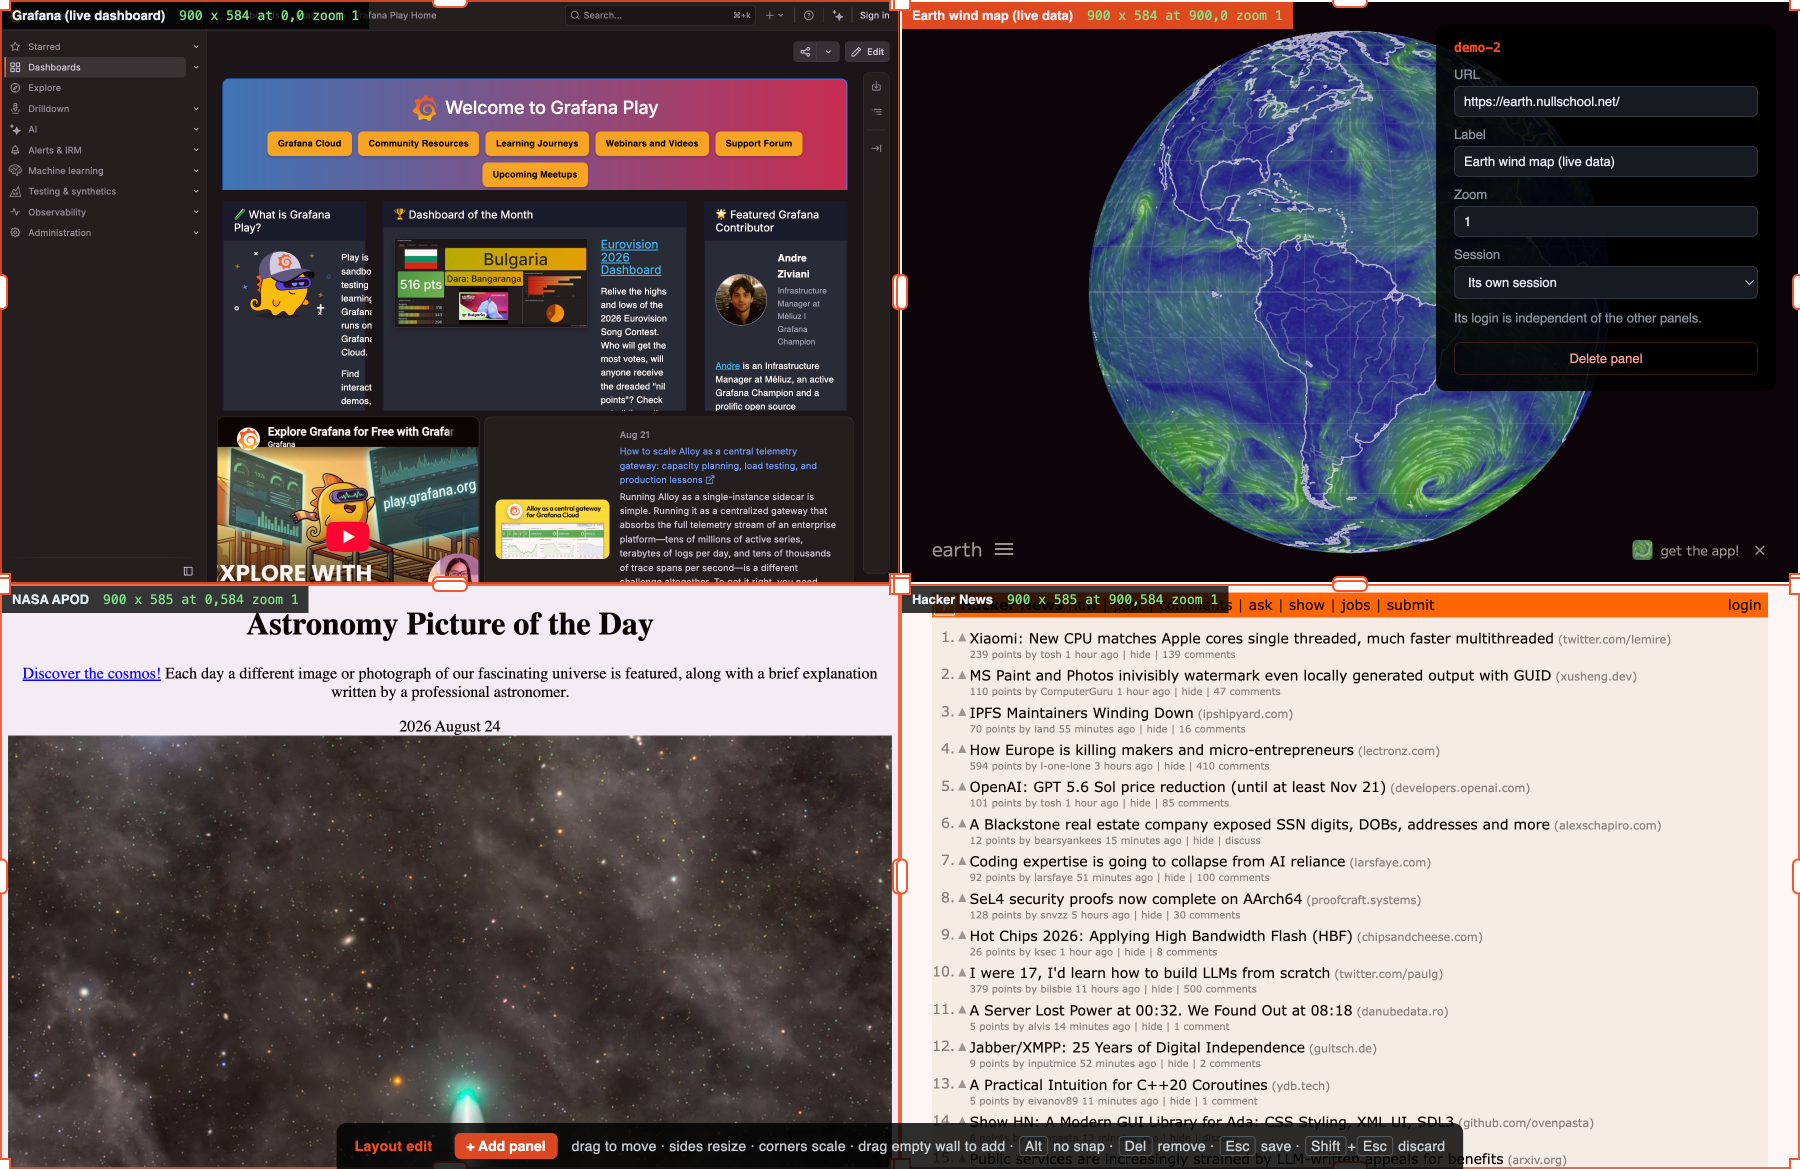
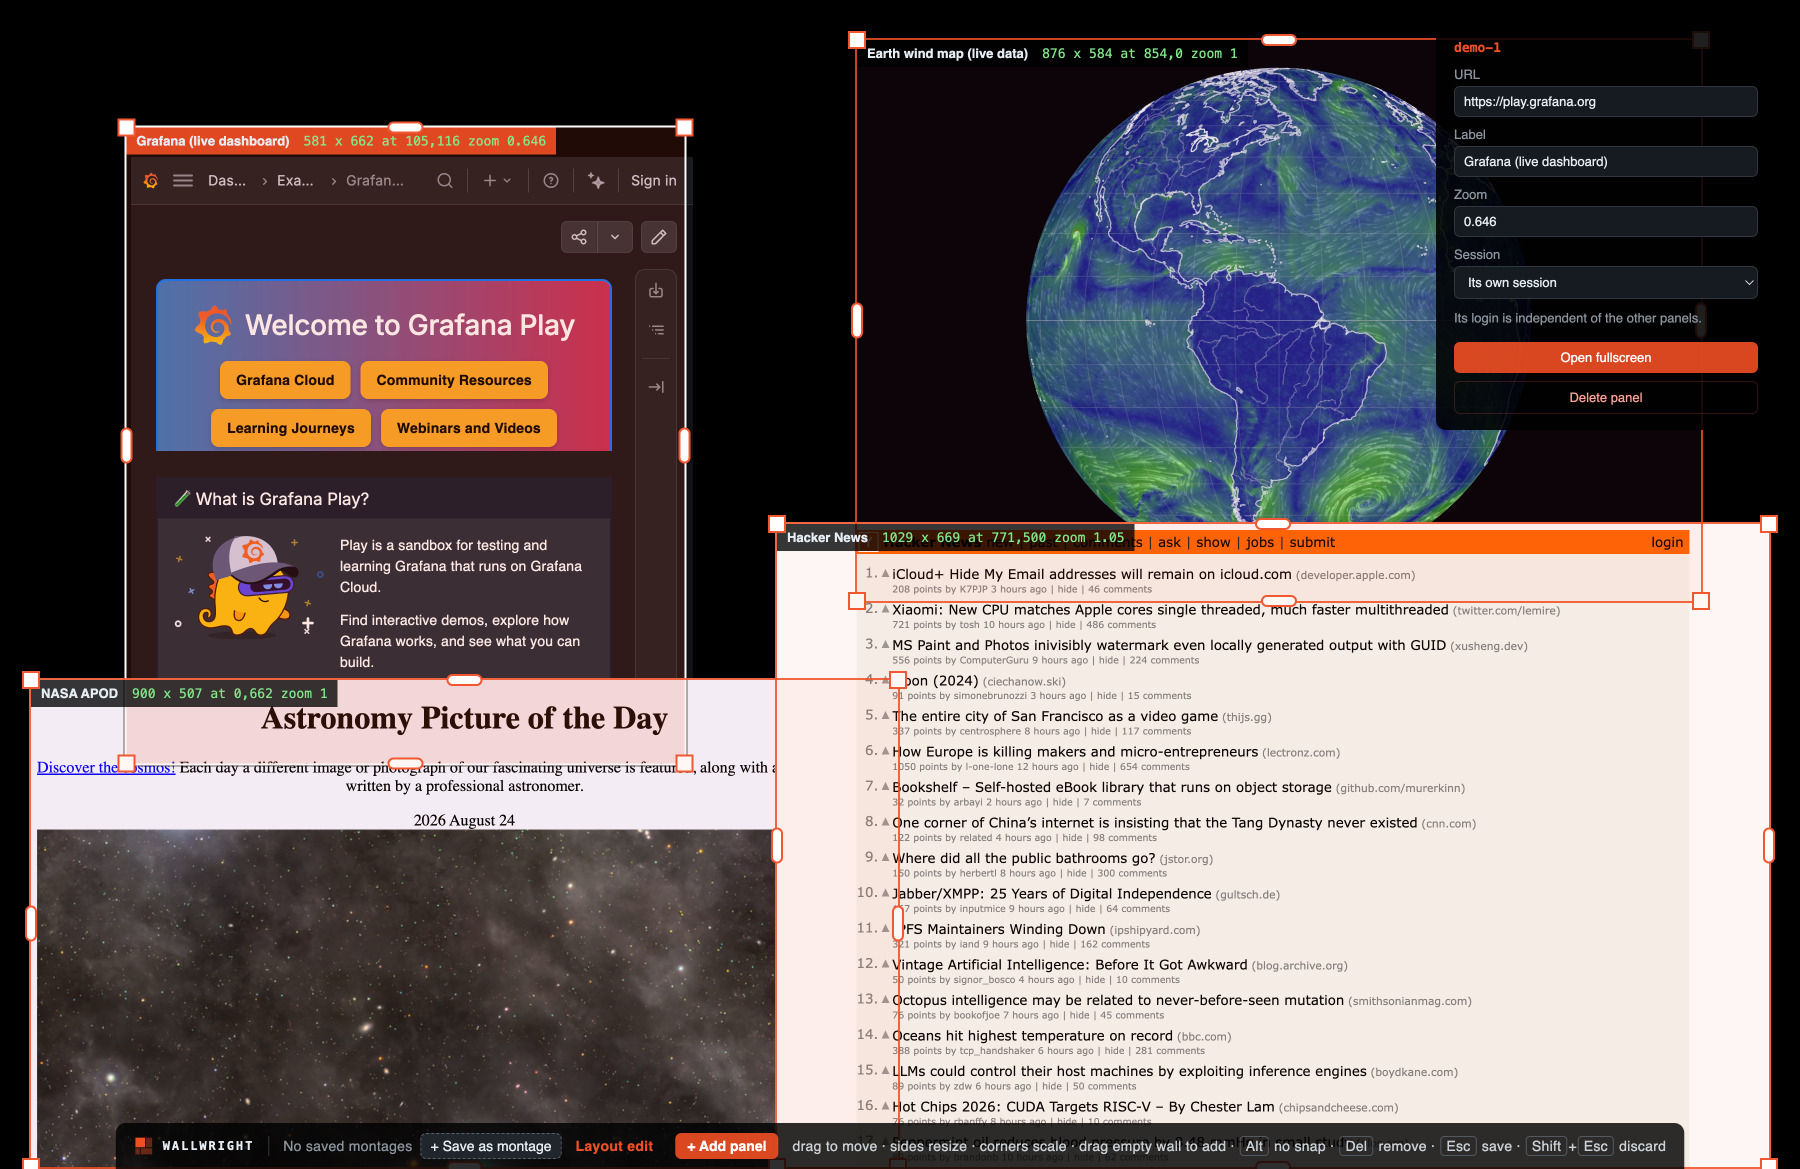
Give the app a mark, a wordmark, and a written palette
The rename landed the name everywhere but left the identity implicit: a 2x2 grid
icon from before the app could edit anything, and ~40 colour literals scattered
across two admin surfaces with no record of which was load-bearing.

The mark is now an authored montage rather than a quad split: one hero panel with
the editor's corner grips, a tall sidebar, two along the bottom. Every video wall
product on the market draws a quad split, and a quad split is also the one layout
this app exists to get away from, so it was saying the opposite of the point. The
grips carry the argument: this wall is editable, not merely lit. They come off
below 128px, where four white squares read as dirt on the glass instead of as
handles.

The palette is now tokens in one :root block, mirrored by name in the control
page, with docs/identity.md saying what each one is for. Cyan stays reserved for
a live drag, which is what makes a snap guide readable the instant it lands.

The wordmark appears on the editor's bar and the control page and nowhere else.
Grid and active mode stay unbranded on purpose: a visitor should see the
dashboards, not the thing hosting them, so the app signs its work only where an
administrator is working with it rather than through it.

docs/identity.md also records why the obvious names were unavailable, with
sources, so nobody re-runs that search. Forge collided with Honeywell's own
software line, which is the one brand this exhibit cannot collide with; Mosaic,
[…]

diff --git a/docs/identity.md b/docs/identity.md
@@ -1,0 +1,129 @@
+# Wallwright identity
+
+The app was called **Forge** until 2026-08-24. This file records what it is
+called now, what that name is made of, and the rules for using it, so the two
+admin surfaces (the wall's edit bar and the control page) stay one tool rather
+than drifting into two.
+
+## The name
+
+**Wallwright.** A wright is someone who builds: a playwright, a shipwright, a
+cartwright. A wallwright builds walls.
+
+That is the product. Everything else in this category pushes pixels onto a
+display; the thing only this app does is let an administrator **author** the wall
+while standing at it, against live dashboards, at real wall resolution, with no
+config file and no site visit from whoever wrote the layout. The editor is the
+product, so the editor names the product.
+
+It also lands in a tradition the people who will run this already know:
+[Lightwright](https://en.wikipedia.org/wiki/Lightwright) is the standard
+lighting paperwork tool in theatre, and CodeWright was a code editor. Show
+technicians read `-wright` as "the tool you build the thing with."
+
+### Why not the obvious names
+
+The obvious names are all taken, and taken specifically in this category, which
+is the worst place to collide. Checked 2026-08-24:
+
+| name          | why not                                                                                                                                                                                                                                                                                                                                                                                                                                                  |
+| ------------- | -------------------------------------------------------------------------------------------------------------------------------------------------------------------------------------------------------------------------------------------------------------------------------------------------------------------------------------------------------------------------------------------------------------------------------------------------------- |
+| **Forge**     | [Honeywell Forge](https://www.honeywellforge.ai/) is Honeywell's own enterprise performance management software line. The exhibit shows Honeywell dashboards, so the old name collided with the client's product brand inside the client's own building.                                                                                                                                                                                                 |
+| **Mosaic**    | [Ross Video Mosaic](https://www.rossvideo.com/products/production-switchers/mosaic/) is multi-screen video processing, [Planar Mosaic](https://www.zones.com/site/statics/static_page.html?name=partner%2Fplanar%2Fmosaic-architectural-video-walls) is an architectural video wall line with its own layout software, and [Userful Mosaic](https://indizium.com/product/userful-mosaic-videowall/) is a video wall processor. Three direct competitors. |
+| **Tessera**   | [Brompton Tessera](https://www.bromptontech.com/) is the dominant LED processor platform for LED video walls. An LED wall app called Tessera reads as a Brompton product.                                                                                                                                                                                                                                                                                |
+| **Montage**   | [DisplayNote Montage](https://www.displaynote.com/screen-sharing) puts multiple sources on one meeting-room display. Same shelf. The word survives in this app as the domain term for a saved layout, which is the right place for it.                                                                                                                                                                                                                   |
+| **Multiview** | The [generic industry term](https://bzbgear.com/blog/what-is-a-multiviewer-and-its-advantages-in-the-av-industry/) for this class of hardware. Cannot function as a mark, and invites comparison to appliances.                                                                                                                                                                                                                                          |
+
+Runners-up that were clear but not chosen: **Polyptych** (many panels hinged
+into one work, which is the data model exactly, at the cost of spelling it out
+loud forever) and **Mullion** (architectural and AV-native, but in video wall
+jargon a mullion is the seam between displays, the number everyone tries to
+minimise).
+
+## The mark
+
+An authored montage: one hero panel, a tall sidebar, two along the bottom,
+wearing the layout editor's own corner grips.
+
+Deliberately **not** a 2x2 grid. Every video wall product on the market draws a
+quad split, and a quad split is also the one layout this app exists to get away
+from, since the whole point is that the montage is arranged rather than given.
+The uneven proportions are what a real wall looks like once someone has worked
+on it.
+
+The grips are the signature. They say the wall is editable, not merely lit.
+
+**Sizes.** The grips only appear at 128px and above; `build/icon.png` has them.
+Below that the mark is the montage silhouette alone: at 20px, four white squares
+read as dirt on the glass rather than as handles. The small mark lives as inline
+SVG in `src/overlay.js` (`MARK`) and `src/control-page.js`.
+
+`build/icon.png` is generated, never hand-edited: `npm run icon` runs
+`src/dev/make-icon.js`, which writes the PNG byte by byte with no dependencies.
+Change the geometry there.
+
+## The wordmark
+
+`WALLWRIGHT`, set in the monospace stack, uppercase, 600 weight, `0.16em`
+letterspacing.
+
+Mono and letterspaced so it reads as a nameplate on a piece of equipment rather
+than as one more label competing with the hints beside it. It is always
+horizontal, always next to the mark, and never restyled per surface: the wall's
+edit bar and the control page use the same treatment at 12px and 15px
+respectively.
+
+## Type
+
+Two faces, and the split carries meaning:
+
+- **System sans** (`-apple-system, BlinkMacSystemFont, Segoe UI, Helvetica,
+Arial`) for anything a person wrote: labels, hints, prose, buttons.
+- **Mono** (`ui-monospace, Menlo, Consolas`) for machine facts, and for the
+  wordmark. Panel ids, URLs, rectangles, zoom levels, memory, uptime.
+
+An administrator scanning the wall should be able to tell at a glance which
+numbers came from the machine. That is why the panel readouts in the editor
+(`.eread`) and the inspector heads are mono, and it is why the wordmark is too:
+this is equipment, and it says so.
+
+## Palette
+
+Defined once in `src/overlay.html` `:root` and mirrored with the same token names
+in `src/control-page.js`. Change both together.
+
+| token              | value       | for                                                     |
+| ------------------ | ----------- | ------------------------------------------------------- |
+| `--accent`         | `#f04e23`   | Hyperquake Poppy: selection, the active thing, the mark |
+| `--accent-rgb`     | `240,78,35` | the same, for `rgba()` over live pages                  |
+| `--ground`         | `#0d1117`   | the wall behind everything, and the control page ground |
+| `--surface`        | `#161b22`   | a card or a field                                       |
+| `--surface-raised` | `#21262d`   | a button at rest                                        |
+| `--text`           | `#e6edf3`   | primary text                                            |
+| `--muted`          | `#8b949e`   | secondary text, field labels                            |
+| `--line`           | `#30363d`   | borders, dividers                                       |
+| `--line-bright`    | `#57606a`   | a border that has to be seen over a live page           |
+| `--guide`          | `#00e5ff`   | snap guides and the rubber band, **editor only**        |
+| `--reading`        | `#7ee787`   | a machine fact read back: the live rectangle            |
+| `--warn`           | `#ffa198`   | destructive, but nothing is wrong yet                   |
+| `--alarm`          | `#f85149`   | something is actually wrong                             |
+
+Poppy is carried over from Hyperquake rather than invented, so the exhibit's tool
+matches the studio that built it. The neutrals are a GitHub-dark-shaped ramp,
+chosen because the app is chrome floating over other people's dashboards and has
+no business competing with them for colour.
+
+Cyan is reserved. It appears only while a drag is live, which is what makes a
+snap guide readable the instant it lands.
+
+## Where the identity is allowed to appear
+
+**The editor's bar, and the control page. Nowhere else.**
+
+Grid mode and active mode carry no branding at all. A visitor standing at the
+wall should see the dashboards, not the thing hosting them; the app's job there
+is to be invisible. The wordmark shows up exactly when an administrator is
+working _with_ the app rather than _through_ it.
+
+The same reasoning covers the Back button, which stays an unbranded dark pill:
+it belongs to the page it is floating over, not to us.

diff --git a/README.md b/README.md
@@ -377,3 +377,6 @@ and each uploads its own artifacts.
 - `config/wall.json` - layout and content config.
 - `electron-builder.yml` - packaging. `build/icon.png` is the source image.
 - `docs/validation.md` - what has been observed running, and what has not.
+- `docs/identity.md` - the name, the mark, the palette, and where branding is
+  allowed to appear. `npm run icon` regenerates `build/icon.png` from
+  `src/dev/make-icon.js`.
